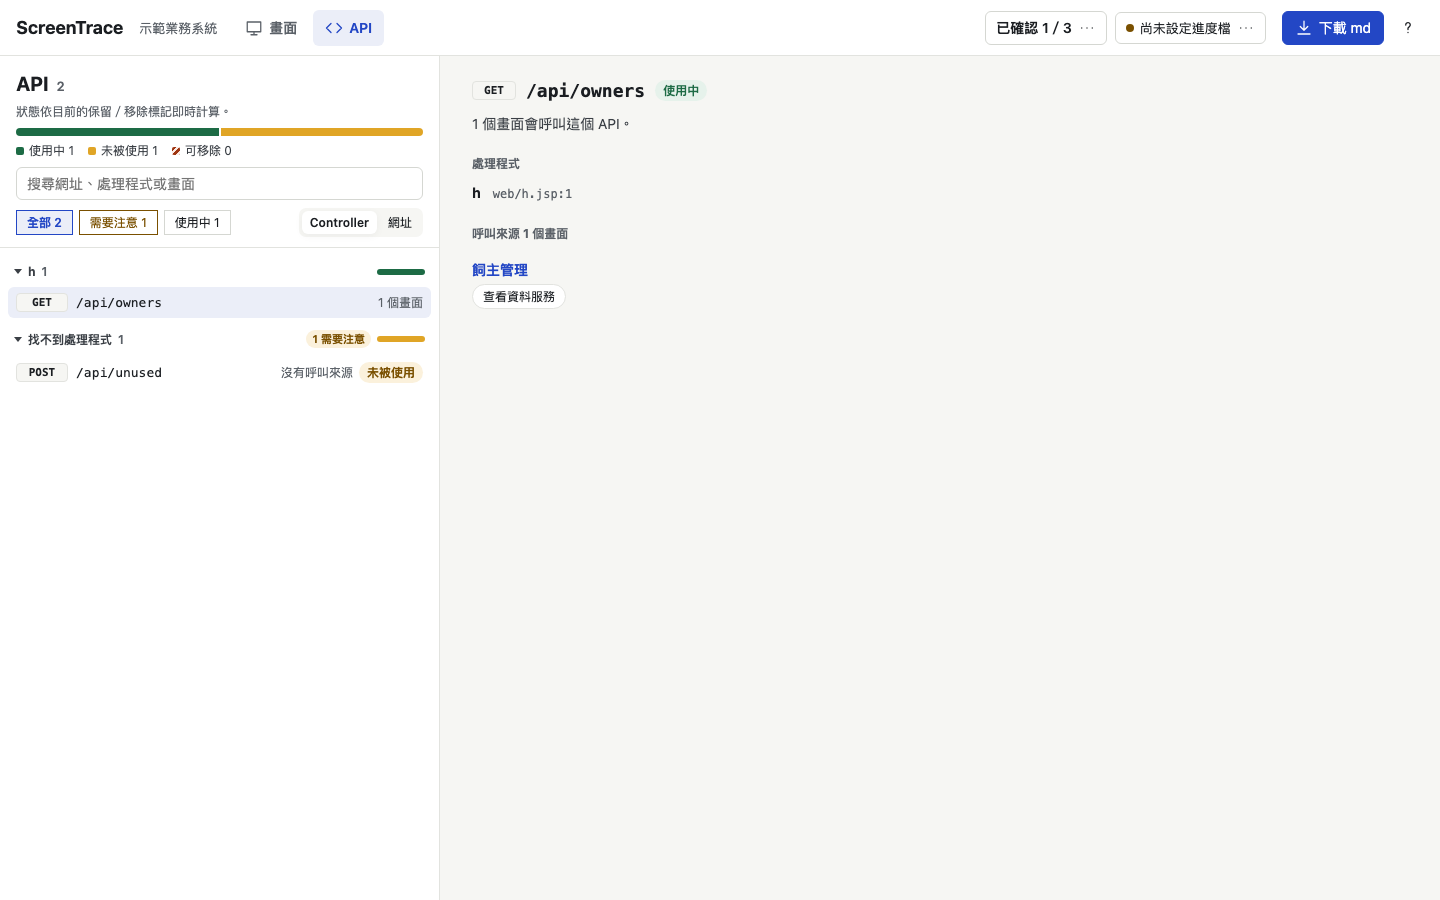
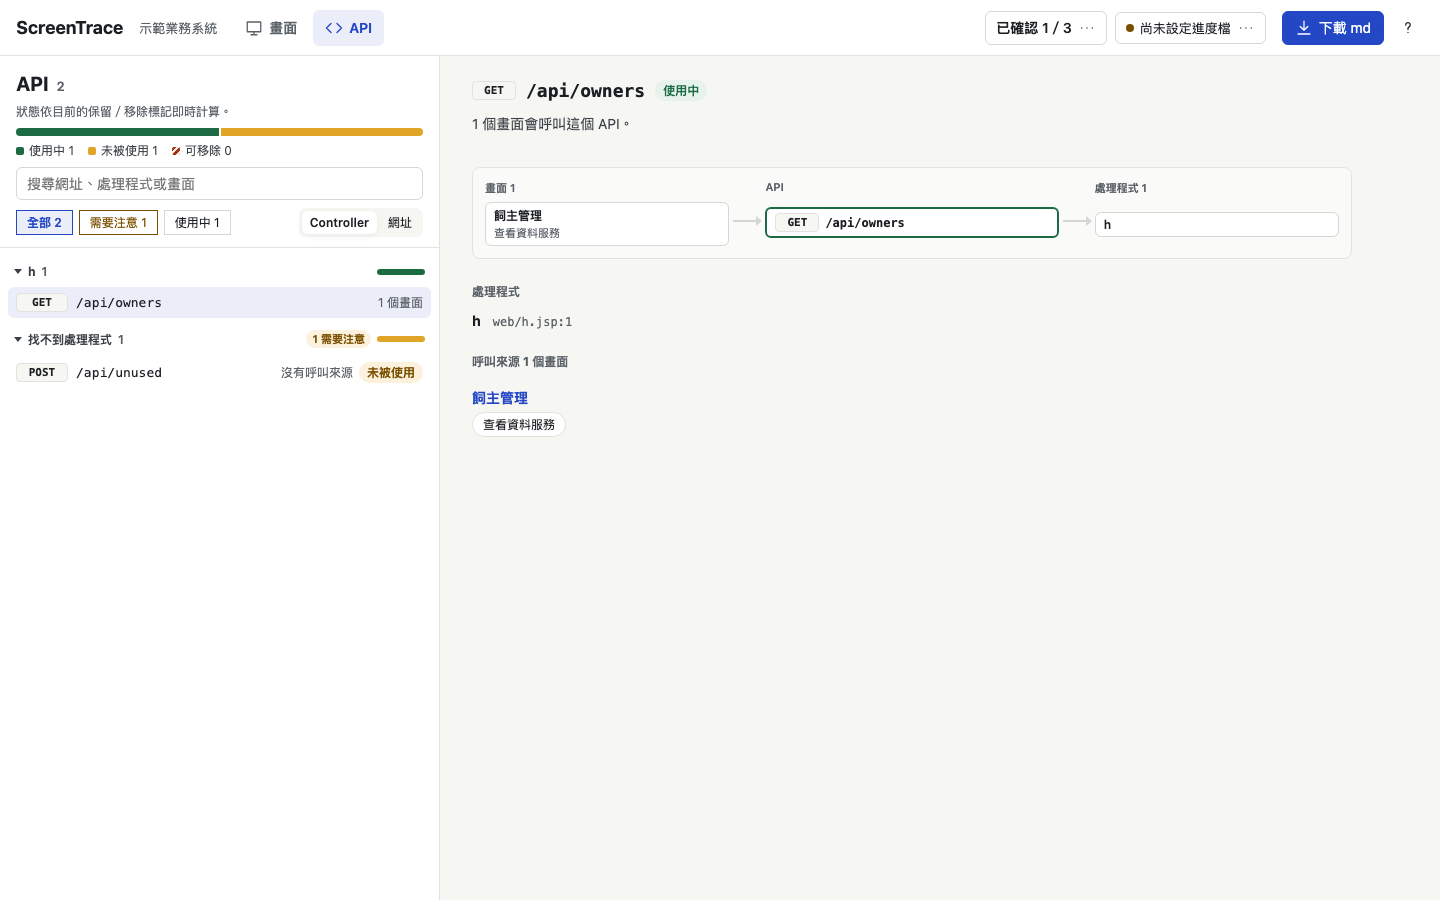
WP99: add the API call chain and persona overlap bars

diff --git a/screentrace-viewer/src/api-page.ts b/screentrace-viewer/src/api-page.ts
@@ -46,6 +46,21 @@ export function apiStatusCounts(statuses:Iterable<ApiStatus>):Record<ApiStatus,n
 const statusShares=(counts:Record<ApiStatus,number>)=>STATUS_ORDER.map(key=>({key,count:counts[key]}));
 const statusCountsLabel=(counts:Record<ApiStatus,number>)=>STATUS_ORDER.map(key=>`${apiStatusLabels[key]} ${counts[key]}`).join('、');
 
+/** How a caller triggers the API, in plain words: its component's label, or a load call on the screen. */
+export function callerLabel(index:Index,caller:Caller):string{
+ return caller.componentId?componentLabelsForScreen(index,caller.screenId).get(caller.componentId)||'沒有文字的按鈕':callerKind(index,caller)==='unresolved'?'無法確定的觸發來源':'畫面載入時';
+}
+export interface ChainScreen {screenId:string;triggers:string[]}
+/** The screens at the start of an API's call chain, each with what on it triggers the API, by screen name. */
+export function chainScreens(index:Index,callers:Caller[]):ChainScreen[]{
+ const byScreen=new Map<string,string[]>();
+ for(const caller of callers){const list=byScreen.get(caller.screenId)||byScreen.set(caller.screenId,[]).get(caller.screenId)!;const label=callerLabel(index,caller);if(!list.includes(label))list.push(label);}
+ const name=(id:string)=>index.nodes.get(id)?.name||'畫面';
+ return [...byScreen].map(([screenId,triggers])=>({screenId,triggers})).sort((a,b)=>name(a.screenId).localeCompare(name(b.screenId),'zh-Hant')||(a.screenId<b.screenId?-1:a.screenId>b.screenId?1:0));
+}
+/** The chain shows this many screens and handlers; the rest are counted, and listed in the sections below. */
+export const CHAIN_LIMIT=5;
+
 export interface ApiPageOptions {selected?:string;onSelect?:(id:string)=>void;onCaller:(screenId:string,componentId?:string)=>void}
 type Filter='ALL'|'ATTENTION'|'IN_USE';
 type Grouping='controller'|'url';
@@ -179,7 +194,6 @@ export function apiPage(index:Index,state:ReviewState,options:ApiPageOptions):HT
  });
  search.oninput=()=>{memory.query=search.value;renderList();};
 
- const callerLabel=(caller:Caller)=>caller.componentId?componentLabelsForScreen(index,caller.screenId).get(caller.componentId)||'沒有文字的按鈕':callerKind(index,caller)==='unresolved'?'無法確定的觸發來源':'畫面載入時';
  const removed=(caller:Caller)=>screenDecision(state,caller.screenId)==='REMOVE'||!!caller.componentId&&componentDecision(state,caller.screenId,caller.componentId)==='REMOVE';
  const callerButton=(caller:Caller,label:string)=>{
   const link=element('button',undefined,'api-caller');link.type='button';
@@ -188,6 +202,32 @@ export function apiPage(index:Index,state:ReviewState,options:ApiPageOptions):HT
   if(removed(caller)){link.classList.add('is-removed');link.append(element('span','已標記移除','api-removed-tag'));}
   link.onclick=()=>options.onCaller(caller.screenId,caller.componentId);
   return link;
+ };
+ /** Screen → what triggers it → this API → handler, as three linked stages; each screen opens it at the caller. */
+ const renderChain=(record:ApiRecord)=>{
+  const screens=chainScreens(index,record.callers),handlerCount=record.handlers.length;
+  const chain=element('div',undefined,'api-chain');chain.dataset.apiSection='chain';chain.setAttribute('role','group');
+  chain.setAttribute('aria-label',`呼叫鏈：${screens.length?`${screens.length} 個畫面`:'沒有呼叫來源'} → ${record.method} ${record.path} → ${handlerCount?`${handlerCount} 個處理程式`:NO_HANDLER}`);
+  const stage=(key:string,heading:string)=>{const box=element('div',undefined,'api-chain-stage');box.dataset.chainStage=key;box.append(element('span',heading,'api-chain-heading'));const items=element('div',undefined,'api-chain-items');box.append(items);return {box,items};};
+  const more=(items:HTMLElement,rest:number,unit:string)=>{if(rest>0)items.append(element('span',`還有 ${rest} 個${unit}`,'api-chain-more'));};
+  const arrow=()=>{const link=element('span',undefined,'api-chain-link');link.setAttribute('aria-hidden','true');return link;};
+  const from=stage('screens',`畫面 ${screens.length}`);
+  if(!screens.length)from.items.append(element('span','沒有呼叫來源','api-chain-node is-empty'));
+  for(const item of screens.slice(0,CHAIN_LIMIT)){
+   const node=element('button',undefined,'api-chain-node');node.type='button';node.dataset.chainScreen=item.screenId;
+   node.append(element('span',index.nodes.get(item.screenId)?.name||'畫面','api-chain-name'),element('span',item.triggers.length>1?`${item.triggers.length} 個觸發`:item.triggers[0],'api-chain-trigger'));
+   node.title=item.triggers.join('、');
+   if(screenDecision(state,item.screenId)==='REMOVE'||record.callers.filter(c=>c.screenId===item.screenId).every(removed))node.classList.add('is-removed');
+   node.onclick=()=>options.onCaller(item.screenId);from.items.append(node);
+  }
+  more(from.items,screens.length-CHAIN_LIMIT,'畫面');
+  const api=stage('api','API'),self=element('span',undefined,'api-chain-node is-self');self.dataset.apiStatus=record.status;self.append(methodBadge(record.method),element('code',record.path,'api-chain-name'));api.items.append(self);
+  const to=stage('handlers',`處理程式 ${handlerCount}`);
+  if(!handlerCount)to.items.append(element('span',NO_HANDLER,'api-chain-node is-empty'));
+  for(const handler of record.handlers.slice(0,CHAIN_LIMIT)){const node=element('span',undefined,'api-chain-node');node.append(element('span',handler.name,'api-chain-name'));to.items.append(node);}
+  more(to.items,handlerCount-CHAIN_LIMIT,'處理程式');
+  chain.append(from.box,arrow(),api.box,arrow(),to.box);
+  return chain;
  };
  const section=(heading:string)=>{const box=element('section',undefined,'api-section');box.append(element('h3',heading));return box;};
 
@@ -211,7 +251,7 @@ export function apiPage(index:Index,state:ReviewState,options:ApiPageOptions):HT
   for(const [key,screens] of [...screensOf].filter(([key])=>shared.has(key)).sort((a,b)=>b[1].size-a[1].size||a[0].localeCompare(b[0],'en'))){
    const callers=record.callers.filter(c=>sharedKey(c)===key),first=callers[0],component=first.componentId?index.nodes.get(first.componentId):undefined;
    const fold=element('details',undefined,'api-shared'),summary=element('summary');fold.dataset.apiShared=key;
-   summary.append(element('span',component?`共用按鈕「${callerLabel(first).replace(/（第 \d+ 個）$/,'')}」`:`${callerLabel(first)}（共用程式）`,'api-shared-name'),element('span',`${screens.size} 個畫面`,'muted'));
+   summary.append(element('span',component?`共用按鈕「${callerLabel(index,first).replace(/（第 \d+ 個）$/,'')}」`:`${callerLabel(index,first)}（共用程式）`,'api-shared-name'),element('span',`${screens.size} 個畫面`,'muted'));
    if(component?.source?.file&&component.source.file!=='.')summary.append(element('code',`${component.source.file}${component.source.line?`:${component.source.line}`:''}`,'api-source'));
    const triggers=element('div',undefined,'api-caller-list');
    const perScreen=new Map<string,Caller>();for(const caller of callers)if(!perScreen.has(caller.screenId))perScreen.set(caller.screenId,caller);
@@ -223,7 +263,7 @@ export function apiPage(index:Index,state:ReviewState,options:ApiPageOptions):HT
    link.dataset.callerScreen=screenId;link.onclick=()=>options.onCaller(screenId);
    if(screenDecision(state,screenId)==='REMOVE')group.classList.add('is-removed');
    const triggers=element('div',undefined,'api-caller-list');
-   for(const caller of callers)triggers.append(callerButton(caller,callerLabel(caller)));
+   for(const caller of callers)triggers.append(callerButton(caller,callerLabel(index,caller)));
    group.append(link,triggers);box.append(group);
   }
   return box;
@@ -270,7 +310,7 @@ export function apiPage(index:Index,state:ReviewState,options:ApiPageOptions):HT
   if(record.node.attributes.externalLogin==='true')inner.append(element('p',`外部登入：${record.node.attributes.externalLoginReturns?`完成後回到 ${record.node.attributes.externalLoginReturns.split('\u001f').join('、')}`:'完成後的導回路徑無法確定'}`,'notice'));
   const title=element('div',undefined,'api-detail-title');title.append(methodBadge(record.method),element('code',record.path,'api-detail-path'),statusTag(record.status));
   const why=element('p',reason(record),record.note?'api-reason api-note':'api-reason');why.dataset.apiStatus=record.status;
-  inner.append(title,why);
+  inner.append(title,why,renderChain(record));
   if(record.external.length){const box=section('外部呼叫（Webhook）');box.dataset.apiSection='external-call';box.append(element('p','公開存取與 CSRF 例外設定均有來源證據；狀態維持未被使用，不授權移除。'));for(const proof of record.external){const value=JSON.parse(proof.detail!),line=element('p');line.append(element('code',value.kind+' '+value.pattern),element('code',`${proof.source!.file}:${proof.source!.line}`,'api-source'));box.append(line);}inner.append(box);}
 
   const handlers=section('處理程式');handlers.dataset.apiSection='handlers';

diff --git a/screentrace-viewer/src/viewer.css b/screentrace-viewer/src/viewer.css
@@ -499,3 +499,26 @@ body[data-presenting=true] .focus-layer{position:fixed!important;inset:0!importa
 .persona-step-count{font-size:12px;font-weight:600}
 .persona-step-name{font-size:11px;color:var(--gray-500);white-space:nowrap}
 @media print{.persona-bar{display:none}}
+/* R29: an API's call chain, and how much of a persona's flow it shares with the others. */
+.api-chain{display:flex;align-items:stretch;gap:0;margin:12px 0 4px;padding:12px;border:1px solid var(--gray-200);border-radius:var(--radius);background:var(--gray-100)}
+.api-chain-stage{display:flex;flex-direction:column;gap:6px;min-width:0;flex:1 1 0}
+.api-chain-stage[data-chain-stage=api]{flex:1.2 1 0}
+.api-chain-heading{font-size:11px;font-weight:600;color:var(--gray-500)}
+.api-chain-items{display:flex;flex-direction:column;justify-content:center;gap:4px;flex:1}
+.api-chain-node{display:flex;flex-direction:column;align-items:flex-start;gap:1px;min-width:0;padding:4px 8px;border:1px solid var(--gray-300);border-radius:6px;background:white;font-size:12px;text-align:left}
+.api-chain-node.is-self{flex-direction:row;align-items:center;gap:6px;border-width:2px}
+.api-chain-node.is-self[data-api-status=IN_USE]{border-color:var(--keep)}
+.api-chain-node.is-self[data-api-status=UNREFERENCED]{border-color:var(--warning-fill)}
+.api-chain-node.is-self[data-api-status=REMOVABLE]{border-color:var(--remove);border-style:dashed}
+.api-chain-node.is-empty{border-style:dashed;color:var(--gray-500);background:transparent}
+.api-chain-node.is-removed{color:var(--gray-500);text-decoration:line-through}
+.api-chain-name{max-width:100%;overflow:hidden;text-overflow:ellipsis;white-space:nowrap;font-weight:600}
+.api-chain-trigger{max-width:100%;overflow:hidden;text-overflow:ellipsis;white-space:nowrap;font-size:11px;color:var(--gray-500)}
+.api-chain-more{font-size:11px;color:var(--gray-500);padding:0 8px}
+.api-chain-link{flex:none;align-self:center;width:28px;height:2px;margin:16px 4px 0;background:var(--gray-300);position:relative}
+.api-chain-link::after{content:'';position:absolute;right:-1px;top:-4px;border:5px solid transparent;border-left:6px solid var(--gray-300);border-right:0}
+@media (max-width:900px){.api-chain{flex-direction:column}.api-chain-link{width:2px;height:16px;margin:4px 0 4px 16px;align-self:flex-start}.api-chain-link::after{right:auto;top:auto;left:-4px;bottom:-6px;border:5px solid transparent;border-top:6px solid var(--gray-300);border-bottom:0}}
+.persona-overlap-bar{flex:0 0 120px;height:6px;align-self:center;margin-left:auto;border-radius:999px;background:var(--gray-200);overflow:hidden}
+.persona-overlap-fill{display:block;height:100%;background:var(--gray-500)}
+.persona-overlap-bar[data-overlap=only] .persona-overlap-fill{background:var(--keep)}
+[data-persona-section=compare] summary .persona-overlap-bar+.muted{min-width:64px;text-align:right;white-space:nowrap}

diff --git a/screentrace-viewer/src/persona-page.ts b/screentrace-viewer/src/persona-page.ts
@@ -24,6 +24,9 @@ export function personaOverlap(index:Index,views:PersonaView[],view:PersonaView)
   .map(([key,group])=>({key,label:key==='only'?'只有這個角色':group.with.length===others.length?'所有角色共用':`和${group.with.map(v=>v.persona.name).join('、')}共用`,screens:group.screens.sort(byStep)}));
 }
 
+/** A group's share of the persona's screens as a bar length, rounded to a whole percent and never below 1. */
+export const overlapPercent=(count:number,total:number)=>total>0&&count>0?Math.max(1,Math.round(count/total*100)):0;
+
 /** What the page keeps while the report is open: leaving for a screen and coming back finds the same persona. */
 const memory={selected:undefined as string|undefined};
 
@@ -114,7 +117,13 @@ export function personaPage(index:Index,views:PersonaView[],options:PersonaPageO
 
   if(views.length>1&&view.depth.size){
    const compare=section('和其他角色比較','compare');
-   for(const overlap of personaOverlap(index,views,view))compare.append(fold(overlap.label,overlap.screens.length,overlap.key,chips(view,overlap.screens)));
+   // Each group's bar is as long as its share of this persona's screens, so the groups compare at a glance.
+   for(const overlap of personaOverlap(index,views,view)){
+    const box=fold(overlap.label,overlap.screens.length,overlap.key,chips(view,overlap.screens));
+    const bar=element('span',undefined,'persona-overlap-bar'),fill=element('span',undefined,'persona-overlap-fill');
+    bar.setAttribute('aria-hidden','true');bar.dataset.overlap=overlap.key==='only'?'only':'shared';fill.style.width=`${overlapPercent(overlap.screens.length,view.depth.size)}%`;bar.append(fill);
+    box.querySelector('summary')!.insertBefore(bar,box.querySelector('summary .muted'));compare.append(box);
+   }
    inner.append(compare);
   }
   const outside=groups.filter(g=>g.reach==='UNREACHED'||g.reach==='EXCLUDED');

diff --git a/docs/USER_GUIDE.md b/docs/USER_GUIDE.md
@@ -52,7 +52,7 @@
 
    點一個角色，畫布改成這個角色的流程圖：最左邊一欄是從起點網址第 1 步就會看到的畫面，往右依序是第 2 步、第 3 步……，線只畫「下一步」會去的地方。按鈕下方有這個角色的說明與兩種框線的意思：綠色實線框是「會走到」（一路上的條件都成立），灰色虛線框是「可能走到」（途中有 ScreenTrace 無法判定的條件，請自行確認）。這個角色走不到或不適用的畫面預設隱藏，勾選「顯示走不到、不適用的畫面」才會排在最右邊。左側清單也改成依步數列出，判定條件收在「判定條件」裡。打開畫面時，右側會顯示這個畫面對目前角色的狀態。點「不套用角色」就恢復原本的畫布。
 
-   「角色」分頁的版面和「API」分頁相同：左邊是角色清單，每個角色下方的色條依序是會走到、可能走到（斜紋）、走不到、不適用的畫面各占多少；右邊是選取角色的內容，包括判定條件（✓ 表示成立、✕ 表示不成立）、起點、依「第 1 步、第 2 步……」列出的流程（上方的直條是每一步有幾個畫面，點直條會捲到那一步）、「和其他角色比較」（例如「只有這個角色」「和顧客共用」），以及收起來的「走不到」「不適用」。點畫面名稱會以這個角色打開那個畫面；點「在畫布上看流程」會回到畫布顯示這個角色的流程圖。
+   「角色」分頁的版面和「API」分頁相同：左邊是角色清單，每個角色下方的色條依序是會走到、可能走到（斜紋）、走不到、不適用的畫面各占多少；右邊是選取角色的內容，包括判定條件（✓ 表示成立、✕ 表示不成立）、起點、依「第 1 步、第 2 步……」列出的流程（上方的直條是每一步有幾個畫面，點直條會捲到那一步）、「和其他角色比較」（例如「只有這個角色」「和顧客共用」，每一組右側的長條是這組畫面占這個角色流程的比例），以及收起來的「走不到」「不適用」。點畫面名稱會以這個角色打開那個畫面；點「在畫布上看流程」會回到畫布顯示這個角色的流程圖。
 
 ![畫布總覽](images/user-guide/canvas.png)
 
@@ -110,7 +110,7 @@
 3. 狀態只有三種：「使用中」、「未被使用」（畫面中找不到呼叫來源）、「可移除」（所有呼叫來源都已標記移除）。清單上方的色條顯示全部 API 中三種狀態各占多少，每個分組標題右側的小色條則是這一組的分布。清單只在需要注意的 API 上標示「未被使用」或「可移除」；按「需要注意」就只看這些。狀態會隨你的標記即時更新。
    若附註「外部呼叫（Webhook）」，狀態仍是「未被使用」，不表示可刪除；點選 API 可查看公開存取與 CSRF 例外兩處設定的檔案及行號。
 4. 搜尋框可以輸入網址、處理程式或畫面名稱。
-5. 右側詳情依序列出：這個狀態的原因、處理程式與它在原始碼中的檔案和行數、呼叫來源，以及最下面預設收合的「Request／Response」（分析得到的參數、欄位與回應型別）。
+5. 右側詳情依序列出：這個狀態的原因、呼叫鏈（左邊是呼叫這個 API 的畫面與觸發的按鈕，中間是 API，右邊是處理程式；畫面超過 5 個時只列前 5 個，點畫面會回到那個畫面）、處理程式與它在原始碼中的檔案和行數、呼叫來源，以及最下面預設收合的「Request／Response」（分析得到的參數、欄位與回應型別）。
 6. 呼叫來源依畫面分組，畫面名稱下方是會呼叫這個 API 的按鈕或「畫面載入時」。頁首的登出按鈕這類在很多畫面共用的按鈕，合併成一組「共用按鈕」，展開可以看到所有畫面。已標記移除的來源會標示「已標記移除」。點畫面名稱或按鈕，會回到那個畫面並標出該按鈕。
 
 ![API 頁](images/user-guide/api-page.png)

diff --git a/docs/adr/0120-r29-call-chain-and-overlap-bars.md b/docs/adr/0120-r29-call-chain-and-overlap-bars.md
@@ -1,0 +1,24 @@
+# ADR 0120：R29 API 詳情的呼叫鏈圖與角色比較的重疊長條
+
+## 背景
+
+R28（[ADR 0119](0119-r28-visual-summaries.md)）為 API 頁與角色頁加上數量的圖形摘要，並把兩項留待後續：API 詳情的呼叫鏈圖，以及角色比較的重疊長條。現在 API 詳情要往下讀過處理程式與呼叫來源兩節，才看得出「哪些畫面 → 這個 API → 哪個處理程式」；角色頁「和其他角色比較」只列出各組的畫面數，要逐列比較數字。
+
+## 選項
+
+1. 呼叫鏈以 SVG 畫出每條連線：每個畫面與觸發元件各畫一條線，文字寬度要另外量測，排版複雜，不採用。
+2. 呼叫鏈以三欄（畫面、API、處理程式）加上欄與欄之間的箭頭呈現，只用 CSS 與 DOM：採用。
+3. 角色重疊改為多色堆疊長條：組數不固定，需要多種分類色，色覺差異的使用者不易分辨，不採用。
+4. 角色重疊每組加一條長度依比例的單色長條：採用。
+
+## 決定
+
+- R29-1：API 詳情在狀態原因下方加呼叫鏈：左欄是呼叫這個 API 的畫面（依畫面名稱排序，每個畫面一格，下方寫觸發元件；同一畫面有兩個以上的觸發時寫「N 個觸發」，完整名稱放在提示文字），中欄是 API 本身（外框顏色依狀態），右欄是處理程式。
+- R29-2：左欄與右欄最多顯示 5 格，其餘寫「還有 N 個畫面／處理程式」，完整清單仍在下方的「呼叫來源」與「處理程式」兩節。沒有呼叫來源或找不到處理程式時，以虛線格寫出。
+- R29-3：點左欄的畫面與點「呼叫來源」中的畫面名稱相同，回到該畫面。畫面或它的所有呼叫來源已標記移除時，格子以刪除線與灰字呈現。
+- R29-4：「和其他角色比較」每一組的標題加一條長條，長度是該組畫面數占這個角色流程畫面數的比例（四捨五入到整數百分比，至少 1%）；「只有這個角色」用保留色，共用的組用灰色。長條靠右對齊，各組可以直接比較長度。
+- R29-5：與 R28-5 相同，圖形只呈現頁面上已有的數字與關係，不新增判定。呼叫鏈以 `role="group"` 與 `aria-label` 提供整條鏈的文字，箭頭與重疊長條對報讀隱藏。只用 CSS 與 DOM，不引入相依。
+
+## 後果
+
+開啟 API 詳情的第一眼就能看到呼叫來源的數量與處理程式；沒有呼叫來源的 API 以虛線格明顯標出。角色比較中各組的大小可以直接比較。呼叫鏈只呈現前 5 個畫面，畫面很多的 API 仍需往下看「呼叫來源」。

diff --git a/docs/ROADMAP.md b/docs/ROADMAP.md
@@ -224,3 +224,8 @@
 
 - WP98：API 頁加上狀態分布條，角色頁加上觸及條、條件標記與每一步的畫面數直條，見 [ADR 0119](adr/0119-r28-visual-summaries.md)。
 - 驗證：viewer 單元測試 139 個（新增 2；sandbox 內 137 通過，OQ-047 的 2 個 Chromium 測試無法執行）；JS 測試 180 個；Maven 581（573 通過、1 略過，另 OQ-041 的 7 個 Chromium 測試在 sandbox 內無法執行）；PR CI run https://github.com/sprangdes/screentrace/actions/runs/41947147871 三個 job 全綠（含 E2E 新增 2 個與上述 7 個測試）。PR：https://github.com/sprangdes/screentrace/pull/72。
+
+## R29 API 呼叫鏈與角色重疊長條
+
+- WP99：API 詳情加上呼叫鏈（畫面 → API → 處理程式），角色比較的每一組加上依比例的長條，見 [ADR 0120](adr/0120-r29-call-chain-and-overlap-bars.md)。
+- 驗證：待 PR CI 完成後補入。
